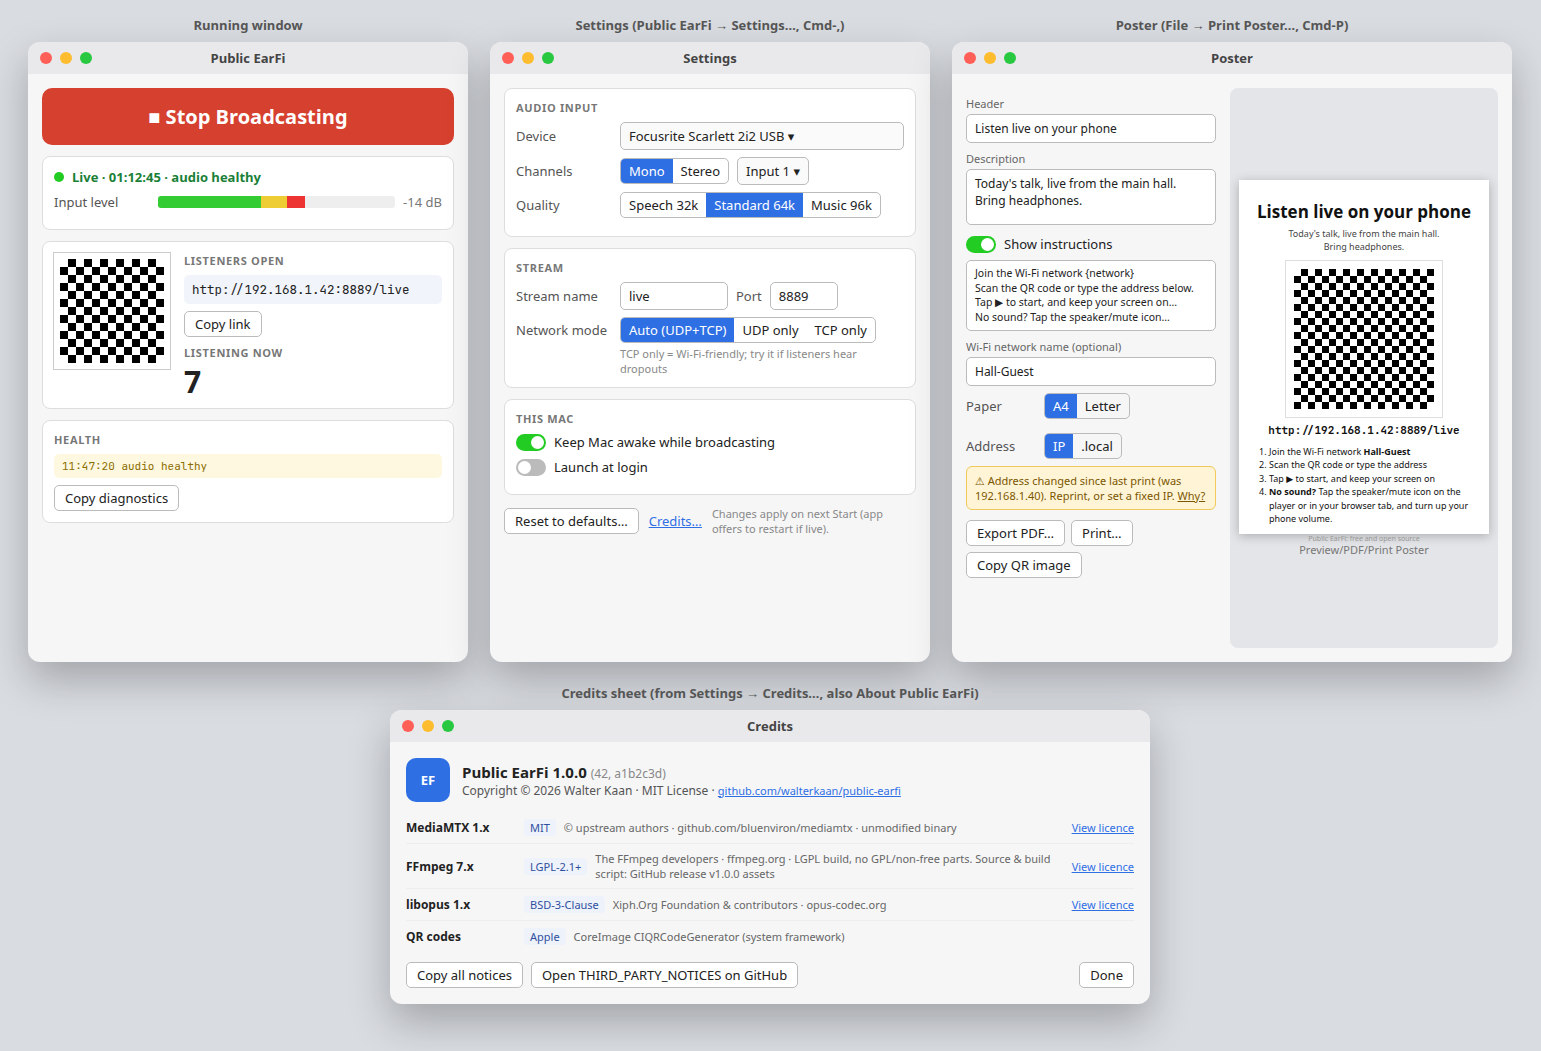
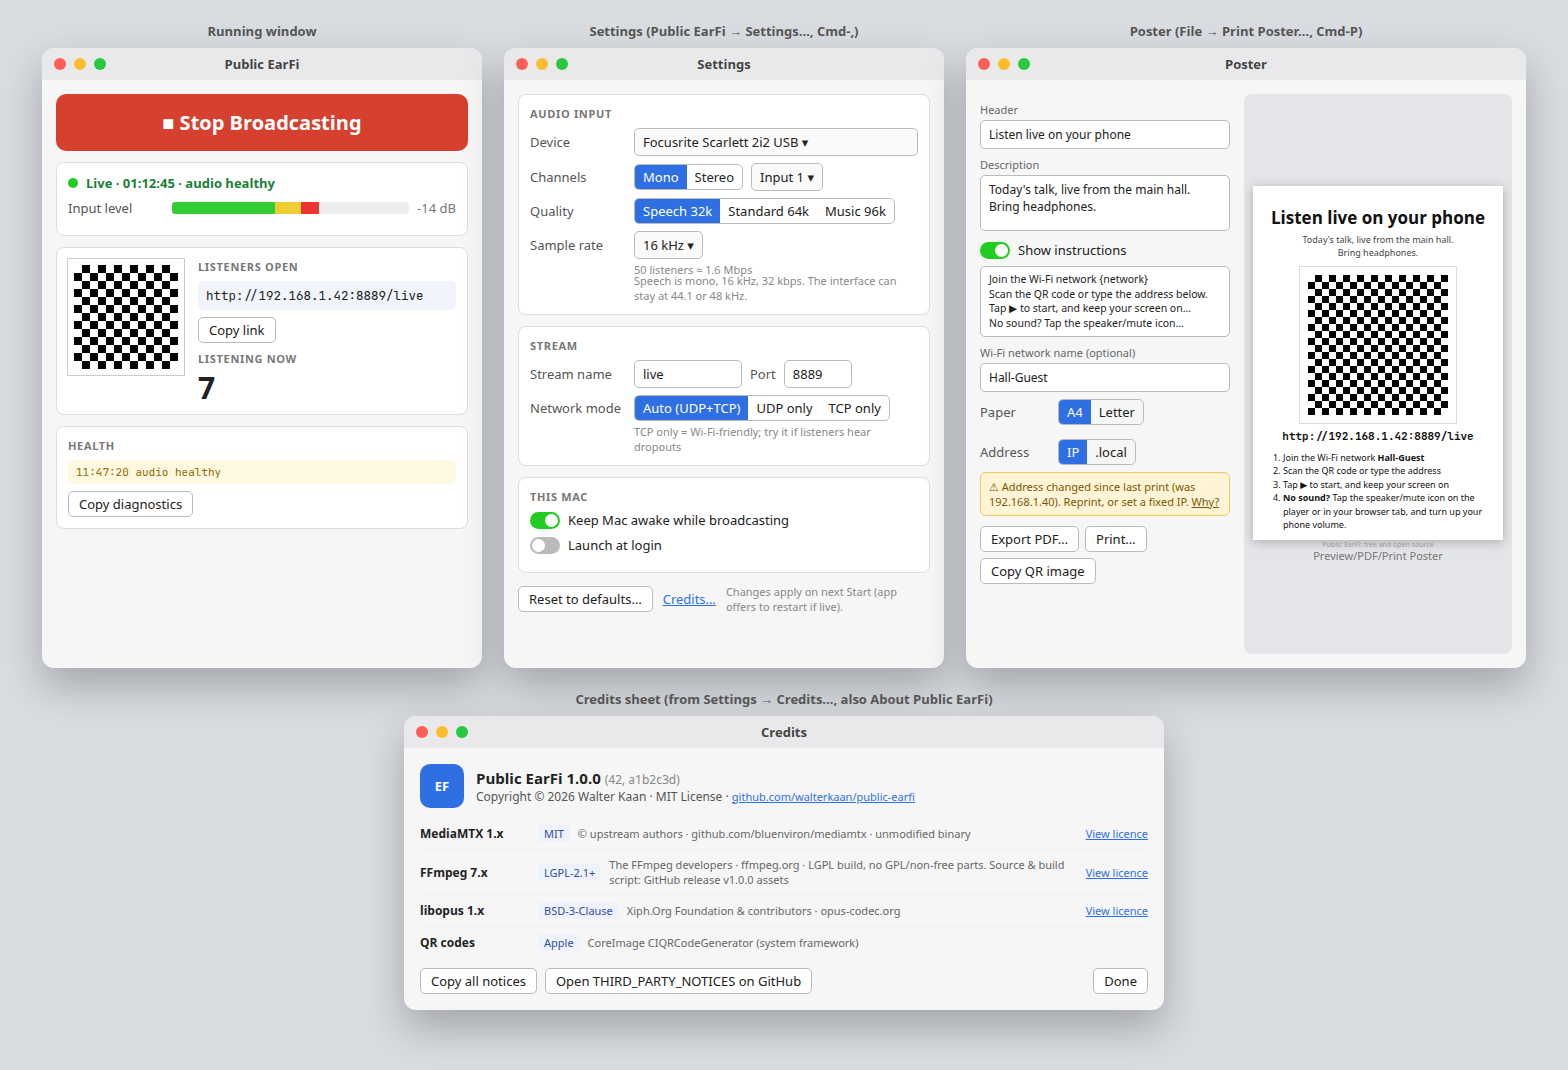
Default Speech to 16 kHz and offer Opus sample rates.
The picker is limited to 8, 12, 16, 24, and 48 kHz. Speech (mono, 16 kHz, 32 kbps) is the default. The interface stays at its native rate; aresample converts without async fill-and-trim. CI also publishes 44.1 and 48 kHz float down to 16 kHz.

Changed region(s): [[0.0, 0.0, 0.9968, 0.9743], [0.7164, 0.0, 0.8722, 0.0609], [0.623, 0.0304, 0.6853, 0.0609]]

diff --git a/Tests/PublicEarFiCoreTests/CoreTests.swift b/Tests/PublicEarFiCoreTests/CoreTests.swift
@@ -8,10 +8,10 @@ final class SettingsTests: XCTestCase {
     XCTAssertNil(settings.inputDeviceUID)
     XCTAssertEqual(settings.channelMode, .mono)
     XCTAssertEqual(settings.inputChannel, 1)
-    XCTAssertEqual(settings.sampleRate, 48_000)
-    XCTAssertEqual(settings.quality, .standard)
-    XCTAssertEqual(settings.resolvedBitrateKbps, 64)
-    XCTAssertEqual(settings.opusApplication, "audio")
+    XCTAssertEqual(settings.sampleRate, 16_000)
+    XCTAssertEqual(settings.quality, .speech)
+    XCTAssertEqual(settings.resolvedBitrateKbps, 32)
+    XCTAssertEqual(settings.opusApplication, "voip")
     XCTAssertEqual(settings.streamName, "live")
     XCTAssertEqual(settings.listenerPort, 8889)
     XCTAssertEqual(settings.icePort, 8189)
@@ -30,16 +30,28 @@ final class SettingsTests: XCTestCase {
     XCTAssertEqual(settings.posterNetworkName, "")
     XCTAssertNil(settings.posterPaperSize)
     XCTAssertTrue(settings.posterUseFooter)
-    XCTAssertEqual(settings.bandwidthHint, "50 listeners ≈ 3.2 Mbps")
+    XCTAssertEqual(settings.bandwidthHint, "50 listeners ≈ 1.6 Mbps")
     XCTAssertTrue(validate(settings).isEmpty)
   }
 
   func testQualityBitrates() {
     var settings = AppSettings.defaults
-    settings.quality = .speech
+    settings.applyPreset(.speech)
+    XCTAssertEqual(settings.channelMode, .mono)
+    XCTAssertEqual(settings.sampleRate, 16_000)
     XCTAssertEqual(settings.resolvedBitrateKbps, 32)
     XCTAssertEqual(settings.opusApplication, "voip")
     XCTAssertEqual(settings.bandwidthHint, "50 listeners ≈ 1.6 Mbps")
+    settings.sampleRate = 48_000
+    XCTAssertTrue(validate(settings).isEmpty)
+    settings.sampleRate = 44_100
+    XCTAssertTrue(validate(settings).contains { $0.field == "sampleRate" })
+    XCTAssertEqual(OpusSampleRate.normalized(44_100), 48_000)
+    XCTAssertEqual(OpusSampleRate.normalized(22_050), 16_000)
+    for rate in OpusSampleRate.allowed {
+      settings.sampleRate = rate
+      XCTAssertTrue(validate(settings).isEmpty, "\(rate)")
+    }
 
     settings.quality = .music
     settings.channelMode = .mono
@@ -105,8 +117,13 @@ final class SettingsTests: XCTestCase {
     settings.inputDeviceUID = "AppleUSBAudioEngine:Focusrite:Scarlett"
     settings.posterPaperSize = .letter
     settings.urlStyle = .localHostname
+    settings.sampleRate = 24_000
     store.save(settings)
     XCTAssertEqual(store.load(), settings)
+
+    settings.sampleRate = 44_100
+    store.save(settings)
+    XCTAssertEqual(store.load().sampleRate, 48_000)
   }
 
   func testBroadcastSignatureIgnoresPosterText() {
@@ -223,9 +240,9 @@ final class FFmpegCommandTests: XCTestCase {
         "-hide_banner", "-nostdin", "-loglevel", "warning",
         "-thread_queue_size", "4096",
         "-f", "avfoundation", "-i", ":Scarlett 2i2 USB",
-        "-af", "pan=mono|c0=c0,aresample=async=1",
-        "-ar", "48000", "-ac", "1",
-        "-c:a", "libopus", "-b:a", "64k", "-application", "audio", "-frame_duration", "20",
+        "-af", "pan=mono|c0=c0,aresample=16000",
+        "-ar", "16000", "-ac", "1",
+        "-c:a", "libopus", "-b:a", "32k", "-application", "voip", "-frame_duration", "20",
         "-f", "rtsp", "-rtsp_transport", "tcp", "rtsp://127.0.0.1:8554/live",
       ]
     )
@@ -235,21 +252,22 @@ final class FFmpegCommandTests: XCTestCase {
     var settings = AppSettings.defaults
     settings.channelMode = .mono
     settings.inputChannel = 2
-    settings.quality = .speech
+    settings.applyPreset(.speech)
+    settings.inputChannel = 2
     settings.streamName = "talk"
-    settings.sampleRate = 44_100
     let arguments = FFmpegCommand.arguments(deviceName: "USB Audio", settings: settings)
-    XCTAssertTrue(arguments.contains("pan=mono|c0=c1,aresample=async=1"))
+    XCTAssertTrue(arguments.contains("pan=mono|c0=c1,aresample=16000"))
     XCTAssertTrue(arguments.contains("32k"))
     XCTAssertTrue(arguments.contains("voip"))
-    XCTAssertTrue(arguments.contains("44100"))
+    XCTAssertTrue(arguments.contains("16000"))
     XCTAssertTrue(arguments.contains("rtsp://127.0.0.1:8554/talk"))
 
     settings.channelMode = .stereo
     settings.inputChannel = 3
     settings.quality = .music
+    settings.sampleRate = 48_000
     let stereo = FFmpegCommand.arguments(deviceName: "USB Audio", settings: settings)
-    XCTAssertTrue(stereo.contains("pan=stereo|c0=c2|c1=c3,aresample=async=1"))
+    XCTAssertTrue(stereo.contains("pan=stereo|c0=c2|c1=c3,aresample=48000"))
     XCTAssertTrue(stereo.contains("128k"))
     XCTAssertTrue(stereo.contains("-ac"))
     XCTAssertEqual(stereo[stereo.firstIndex(of: "-ac")! + 1], "2")

diff --git a/Sources/PublicEarFiCore/Settings.swift b/Sources/PublicEarFiCore/Settings.swift
@@ -12,6 +12,26 @@ public enum QualityPreset: String, Codable, CaseIterable, Equatable {
   case custom
 }
 
+/// Rates libopus can encode. 44.1 kHz is not one of them.
+public enum OpusSampleRate {
+  public static let allowed: [Int] = [8_000, 12_000, 16_000, 24_000, 48_000]
+
+  public static func isAllowed(_ rate: Int) -> Bool {
+    allowed.contains(rate)
+  }
+
+  public static func label(_ rate: Int) -> String {
+    "\(rate / 1000) kHz"
+  }
+
+  /// Saved settings from the old 44.1/48 picker stay usable. 44.1 kHz becomes 48 kHz.
+  public static func normalized(_ rate: Int) -> Int {
+    if isAllowed(rate) { return rate }
+    if rate == 44_100 { return 48_000 }
+    return 16_000
+  }
+}
+
 public enum NetworkMode: String, Codable, CaseIterable, Equatable {
   case auto
   case udpOnly
@@ -60,9 +80,9 @@ public struct AppSettings: Codable, Equatable {
     inputDeviceUID: String? = nil,
     channelMode: ChannelMode = .mono,
     inputChannel: Int = 1,
-    quality: QualityPreset = .standard,
+    quality: QualityPreset = .speech,
     customBitrateKbps: Int = 64,
-    sampleRate: Int = 48_000,
+    sampleRate: Int = 16_000,
     streamName: String = "live",
     listenerPort: Int = 8889,
     icePort: Int = 8189,
@@ -131,6 +151,15 @@ public struct AppSettings: Codable, Equatable {
 
   public var opusApplication: String {
     quality == .speech ? "voip" : "audio"
+  }
+
+  /// Speech is the verified preset: mono, 16 kHz, 32 kbps. Choosing it sets those.
+  public mutating func applyPreset(_ preset: QualityPreset) {
+    quality = preset
+    if preset == .speech {
+      channelMode = .mono
+      sampleRate = 16_000
+    }
   }
 
   public func estimatedMegabits(listeners: Int) -> Double {
@@ -235,9 +264,12 @@ public func validate(_ settings: AppSettings) -> [SettingsIssue] {
     issues.append(
       SettingsIssue(field: "inputChannel", message: "Input channel must be 1 or higher."))
   }
-  if settings.sampleRate != 48_000 && settings.sampleRate != 44_100 {
+  if !OpusSampleRate.isAllowed(settings.sampleRate) {
     issues.append(
-      SettingsIssue(field: "sampleRate", message: "Sample rate must be 48000 or 44100 Hz.")
+      SettingsIssue(
+        field: "sampleRate",
+        message: "Sample rate must be an Opus rate: 8000, 12000, 16000, 24000, or 48000 Hz."
+      )
     )
   }
   return issues
@@ -349,7 +381,7 @@ public struct SettingsStore {
     if let value = stored.inputChannel { settings.inputChannel = value }
     if let value = stored.quality { settings.quality = value }
     if let value = stored.customBitrateKbps { settings.customBitrateKbps = value }
-    if let value = stored.sampleRate { settings.sampleRate = value }
+    if let value = stored.sampleRate { settings.sampleRate = OpusSampleRate.normalized(value) }
     if let value = stored.streamName { settings.streamName = value }
     if let value = stored.listenerPort { settings.listenerPort = value }
     if let value = stored.icePort { settings.icePort = value }

diff --git a/Sources/PublicEarFi/RootView.swift b/Sources/PublicEarFi/RootView.swift
@@ -319,11 +319,20 @@ struct SettingsTab: View {
             .pickerStyle(.segmented)
             .labelsHidden()
           }
+          LabeledRow(title: "Sample rate") {
+            Picker("Rate", selection: rateBinding) {
+              ForEach(OpusSampleRate.allowed, id: \.self) { rate in
+                Text(OpusSampleRate.label(rate)).tag(rate)
+              }
+            }
+            .labelsHidden()
+            .frame(width: 120)
+          }
           Text(model.settings.bandwidthHint)
             .font(.caption)
             .foregroundStyle(.secondary)
           Text(
-            "Music is 96 kbps mono or 128 kbps stereo. Opus stays compressed for every listener."
+            "Speech is mono, 16 kHz, 32 kbps. The interface can stay at 44.1 or 48 kHz; ffmpeg resamples. Music is 96 kbps mono or 128 kbps stereo."
           )
           .font(.caption)
           .foregroundStyle(.secondary)
@@ -365,14 +374,6 @@ struct SettingsTab: View {
           }
         }
         DisclosureGroup("Advanced") {
-          LabeledRow(title: "Sample rate") {
-            Picker("Rate", selection: rateBinding) {
-              Text("48 kHz").tag(48_000)
-              Text("44.1 kHz").tag(44_100)
-            }
-            .labelsHidden()
-            .frame(width: 140)
-          }
           LabeledRow(title: "ICE port") {
             TextField("8189", value: iceBinding, format: .number).frame(width: 80)
           }
@@ -459,7 +460,7 @@ struct SettingsTab: View {
   private var qualityBinding: Binding<QualityPreset> {
     Binding(
       get: { model.settings.quality == .custom ? .standard : model.settings.quality },
-      set: { value in model.mutate { $0.quality = value } }
+      set: { value in model.mutate { $0.applyPreset(value) } }
     )
   }
   private var streamBinding: Binding<String> {

diff --git a/docs/mockup.html b/docs/mockup.html
@@ -70,7 +70,10 @@ h3{margin:0 0 7px;font-size:11px;text-transform:uppercase;letter-spacing:.06em;c
  <div class="card"><h3>Audio input</h3>
   <div class="row"><label>Device</label><div class="sel">Focusrite Scarlett 2i2 USB ▾</div></div>
   <div class="row"><label>Channels</label><div class="seg"><div class="on">Mono</div><div>Stereo</div></div><div class="sel" style="flex:0 0 auto">Input 1 ▾</div></div>
-  <div class="row"><label>Quality</label><div class="seg"><div>Speech 32k</div><div class="on">Standard 64k</div><div>Music 96k</div></div></div>
+  <div class="row"><label>Quality</label><div class="seg"><div class="on">Speech 32k</div><div>Standard 64k</div><div>Music 96k</div></div></div>
+  <div class="row"><label>Sample rate</label><div class="sel" style="flex:0 0 auto">16 kHz ▾</div></div>
+  <div class="hint">50 listeners ≈ 1.6 Mbps</div>
+  <div class="hint">Speech is mono, 16 kHz, 32 kbps. The interface can stay at 44.1 or 48 kHz.</div>
  </div>
  <div class="card"><h3>Stream</h3>
   <div class="row"><label>Stream name</label><div class="inp">live</div><label style="width:auto">Port</label><div class="inp" style="width:50px">8889</div></div>

diff --git a/Sources/PublicEarFi/AppModel.swift b/Sources/PublicEarFi/AppModel.swift
@@ -386,13 +386,14 @@ final class AppModel: ObservableObject {
         helpers: helpers,
         home: FileManager.default.homeDirectoryForCurrentUser,
         prepareAudio: {
-          guard let device else { return "No input device is available." }
-          let accepted = AudioDeviceList.setNominalSampleRate(
-            deviceID: device.deviceID,
-            rate: Double(snapshot.sampleRate)
-          )
-          return accepted
-            ? nil : "The audio interface refused \(snapshot.sampleRate) Hz. ffmpeg will resample."
+          // Leave the interface at its native rate (often 44.1 or 48 kHz
+          // float). The earlier default asked Core Audio for 48 kHz and
+          // then ran aresample=async=1. On a 44.1 kHz USB device that
+          // either refuses 48 kHz or keeps its own clock, async fill-and-trim
+          // inserts and drops samples continuously. aresample converts
+          // to the selected Opus rate at a fixed ratio instead.
+          guard device != nil else { return "No input device is available." }
+          return nil
         }
       )
     )

diff --git a/Sources/PublicEarFiCore/FFmpegCommand.swift b/Sources/PublicEarFiCore/FFmpegCommand.swift
@@ -3,6 +3,10 @@ import Foundation
 public enum FFmpegCommand {
   public static func arguments(deviceName: String, settings: AppSettings) -> [String] {
     let pan = panFilter(mode: settings.channelMode, inputChannel: settings.inputChannel)
+    // aresample converts the interface's native rate (often 44.1 or 48 kHz
+    // float) to an Opus rate. async= is omitted: async=1 fill-and-trims for
+    // about one sample of clock skew, and that garbled a 44.1 kHz device
+    // that had been forced to 48 kHz. The device rate is left alone.
     return [
       "-hide_banner",
       "-nostdin",
@@ -15,7 +19,7 @@ public enum FFmpegCommand {
       "-i",
       ":\(deviceName)",
       "-af",
-      "\(pan),aresample=async=1",
+      "\(pan),aresample=\(settings.sampleRate)",
       "-ar",
       String(settings.sampleRate),
       "-ac",

diff --git a/Sources/PublicEarFi/AudioDevices.swift b/Sources/PublicEarFi/AudioDevices.swift
@@ -29,6 +29,9 @@ enum AudioDeviceList {
     return identifiers.compactMap(makeDevice)
   }
 
+  /// Changes the hardware clock. Broadcasting must not call this: a 44.1 kHz
+  /// USB device forced to 48 kHz, then resampled with async compensation,
+  /// is what garbled the earlier 48 kHz builds. ffmpeg's aresample converts.
   static func setNominalSampleRate(deviceID: AudioDeviceID, rate: Double) -> Bool {
     var address = AudioObjectPropertyAddress(
       mSelector: kAudioDevicePropertyNominalSampleRate,

diff --git a/README.md b/README.md
@@ -13,7 +13,7 @@ Sound desk → USB interface → ffmpeg (avfoundation, Opus)
           → RTSP → MediaMTX → WebRTC → phone browsers
 ```
 
-Listeners open `http://<mac-ip>:8889/live`. The default is Opus at 64 kbps mono, so 50 listeners are about 3.2 Mbps of audio. That is much lighter on a crowded venue access point than uncompressed audio.
+Listeners open `http://<mac-ip>:8889/live`. The default is the Speech preset: Opus at 16 kHz, 32 kbps, mono, so 50 listeners are about 1.6 Mbps of audio. That is much lighter on a crowded venue access point than uncompressed audio. The interface can stay at its native 44.1 or 48 kHz; ffmpeg resamples.
 
 The app bundles MediaMTX and an LGPL build of FFmpeg with libopus. You do not need Homebrew or Terminal to run it.
 
@@ -65,7 +65,7 @@ The same steps are in `docs/FIRST-OPEN.txt`, which is copied onto the DMG.
 - If listeners cannot connect, check System Settings → Network → Firewall. RTSP and the control API stay on 127.0.0.1 and do not need a firewall exception.
 - **TCP only** in Settings is the Wi-Fi-friendly mode. Try it if listeners hear dropouts.
 - Ask listeners to keep the phone screen on and the browser in front. Plug phones in for a long session.
-- A busy access point has limited airtime. 50 listeners at 64 kbps is about 3.2 Mbps of audio (a bit more with network overhead). 100 listeners is about 6.4 Mbps. The Speech preset is 32 kbps.
+- A busy access point has limited airtime. The default Speech preset is 32 kbps, about 1.6 Mbps for 50 listeners (a bit more with network overhead). Standard 64 kbps is about 3.2 Mbps for 50 people. 100 listeners at Speech is about 3.2 Mbps.
 
 ## Using the app
 
@@ -73,7 +73,7 @@ The main window is the broadcast. Settings, the poster, and the log each open in
 
 **Running.** Start and Stop, a level meter (it works before you go live), the listener URL, a QR code, how many people are listening, and the latest health line. Copy diagnostics is on that window. Click the QR code to show it full screen. **View → Show Log** (Cmd-L) opens the full log.
 
-**Settings.** **Public EarFi → Settings…** (Cmd-,). Input device, mono or stereo and which channel, Speech 32k / Standard 64k / Music 96k (Music is 96 kbps mono or 128 kbps stereo), stream name, port, and network mode. Keep the Mac awake while broadcasting. Launch at login and start-on-open are off by default. Reset to defaults restores every setting, including the poster text, and does not delete logs. If you change a broadcast setting while live, the app offers to apply it with a brief interruption.
+**Settings.** **Public EarFi → Settings…** (Cmd-,). Input device, mono or stereo and which channel, Speech 32k / Standard 64k / Music 96k (Music is 96 kbps mono or 128 kbps stereo), and an Opus sample rate (8, 12, 16, 24, or 48 kHz). Speech is the default: mono, 16 kHz, 32 kbps. Choosing Speech sets those three. The interface is left at its native rate; ffmpeg's aresample converts. Stream name, port, and network mode are here too. Keep the Mac awake while broadcasting. Launch at login and start-on-open are off by default. Reset to defaults restores every setting, including the poster text, and does not delete logs. If you change a broadcast setting while live, the app offers to apply it with a brief interruption.
 
 **Poster.** **File → Print Poster…** (Cmd-P) opens the poster window. **File → Export Poster PDF…** (Cmd-Shift-E) saves a PDF without opening that window. The poster window still has Export PDF, Print, and Copy QR image. **Edit** has Copy Listener Link and Copy QR Image. Header, description, instructions, optional Wi-Fi name, A4 or Letter, and IP or `.local`. The default paper size is Letter in the US and Canada and A4 elsewhere. The default instructions include: *No sound? Tap the speaker/mute icon on the player or in your browser tab, and turn up your phone volume.*
 
@@ -88,7 +88,7 @@ Closing the laptop lid still sleeps the Mac unless it is on power with an extern
 | No sound on a phone | Tap play. Tap the speaker/mute icon on the player or the browser tab. Turn the phone volume up. Keep the screen on. |
 | The meter shows no signal | Confirm the desk is feeding the interface, and that Mono/Input matches the channel the desk uses. |
 | Listeners cannot open the link | Same network, no client isolation, firewall allows mediamtx, and the poster matches the current address. |
-| Dropouts | Wired Mac, TCP only mode, and a lower bitrate (Speech 32k). Set the interface to 48 kHz; the app tries to do that itself. |
+| Dropouts or garbled audio | Use Speech (16 kHz). Wired Mac, and TCP only mode. The app leaves the interface at its native rate and resamples in ffmpeg. Forcing a 44.1 kHz USB device to 48 kHz, then compensating with `aresample=async=1`, was the combination that garbled audio in testing. |
 | Microphone prompt on every update | Expected for ad-hoc builds. See the first-open section. |
 | "Public EarFi is damaged" | Re-download. Do not run a half-copied app. |
 | The app was quit hard and the port is busy | Open it again. It stops stale mediamtx and ffmpeg processes it started. |
@@ -119,5 +119,5 @@ Each GitHub release attaches the matching FFmpeg source tarball and `scripts/bui
 ## Known limits
 
 - Phone operating systems may pause or stop WebRTC audio when the screen locks or the browser is in the background.
-- Every listener is their own stream. Plan on about 3.2 Mbps for 50 people at the default quality, plus some protocol overhead.
+- Every listener is their own stream. Plan on about 1.6 Mbps for 50 people at the default Speech preset, plus some protocol overhead. Standard 64 kbps is about 3.2 Mbps.
 - A 50-listener, 2-hour session on a wired Mac is the acceptance target. It still has to be tried at a real venue.

diff --git a/CHANGELOG.md b/CHANGELOG.md
@@ -6,6 +6,7 @@ First MVP build of Public EarFi.
 
 - SwiftUI app. The main window is the broadcast. Settings opens with Cmd-, from the app menu. The poster and the log are their own windows. Credits stays in Settings and About.
 - App icon: Walter's yellow loudhailer on purple, masked to a squircle with transparent corners.
+- Default quality is Speech: mono, 16 kHz, 32 kbps (the rate that worked in manual tests, and the lowest bandwidth). The sample-rate picker offers the Opus rates (8, 12, 16, 24, 48 kHz). 44.1 kHz is not an encode rate; a saved 44.1 kHz setting loads as 48 kHz. The interface stays at its native rate. ffmpeg's aresample converts, without the async fill-and-trim that garbled 44.1 kHz devices forced to 48 kHz.
 - Bundled MediaMTX 1.21.2 and an LGPL FFmpeg 9.0.2 with libopus 1.6.1, built from pinned source.
 - Generated `mediamtx.yml`, device selection by name, defaults from the spec, and Reset.
 - Start/stop supervision, auto-restart, stall detection, LAN address selection, and file logging.
